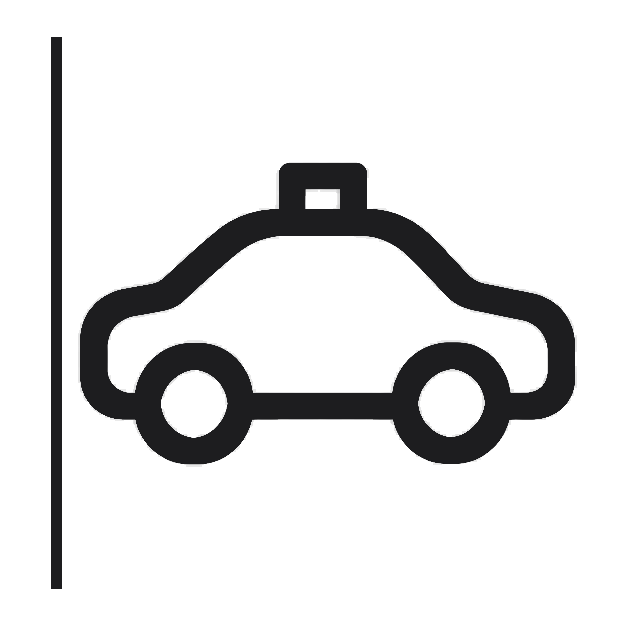
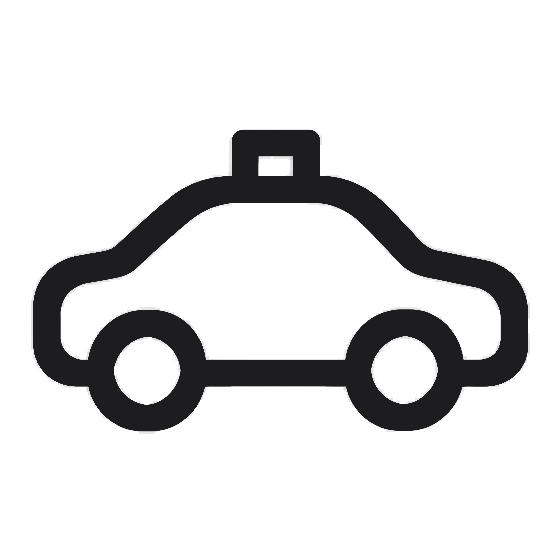
taxi清除88%高残留竖线(放宽检测阈值到40%)+iOS捏合缩放彻底锁死

diff --git a/index.html b/index.html
@@ -212,7 +212,7 @@
         <h3>抵达<span data-nav="深圳北站">深圳北站</span></h3>
         <p>出站步行至地铁约 15 分钟</p>
       </div>
-      <div class="leg" data-from="114.029962,22.610262,深圳北站" data-to="113.943370,22.539064,深大地铁站"><div class="leg-line"><span class="wh"><img class="ic" src="icons/metro.png?v=4" alt=""><span class="way">地铁</span></span><span class="ln ln-5">5</span><span class="ll">深圳北站</span><span class="shaft"><span class="s-dir">赤湾方向</span><span class="s-line lc-5"></span><span class="s-stops">5 站</span></span><span class="ll">留仙洞</span></div><div class="leg-line"><span class="wh"><img class="ic" src="icons/metro.png?v=4" alt=""><span class="way">地铁</span></span><span class="ln ln-13">13</span><span class="ll">留仙洞</span><span class="shaft"><span class="s-dir">深圳湾口岸方向</span><span class="s-line lc-13"></span><span class="s-stops">5 站</span></span><span class="ll">深大站</span><span class="exit">A3 口</span></div><div class="leg-eta"><span class="eta-k">预计到达</span><span class="eta-t">14:00</span><span class="eta-d">约 33 分钟</span></div></div>
+      <div class="leg" data-from="114.029962,22.610262,深圳北站" data-to="113.943370,22.539064,深大地铁站"><div class="leg-line"><span class="wh"><img class="ic" src="icons/metro.png?v=5" alt=""><span class="way">地铁</span></span><span class="ln ln-5">5</span><span class="ll">深圳北站</span><span class="shaft"><span class="s-dir">赤湾方向</span><span class="s-line lc-5"></span><span class="s-stops">5 站</span></span><span class="ll">留仙洞</span></div><div class="leg-line"><span class="wh"><img class="ic" src="icons/metro.png?v=5" alt=""><span class="way">地铁</span></span><span class="ln ln-13">13</span><span class="ll">留仙洞</span><span class="shaft"><span class="s-dir">深圳湾口岸方向</span><span class="s-line lc-13"></span><span class="s-stops">5 站</span></span><span class="ll">深大站</span><span class="exit">A3 口</span></div><div class="leg-eta"><span class="eta-k">预计到达</span><span class="eta-t">14:00</span><span class="eta-d">约 33 分钟</span></div></div>
       <div class="stop">
         <div class="time">14:00–16:00</div>
         <h3><span data-nav="深圳大学粤海校区">深圳大学</span>粤海校区</h3>
@@ -222,30 +222,30 @@
           <span class="tag">17:30 放号 国庆名额 9/30 起抢</span>
           </div>
       </div>
-      <div class="leg" data-from="113.943370,22.539064,深大地铁站" data-to="113.919228,22.488991,水湾地铁站"><div class="walk"><span class="wh"><img class="ic" src="icons/walk.png?v=4" alt=""><span class="way">步行</span></span><span class="ll">深大正门</span><span class="warr">→</span><span class="ll">深大站</span><span class="eta-d">约 3 分钟</span></div><div class="leg-line"><span class="wh"><img class="ic" src="icons/metro.png?v=4" alt=""><span class="way">地铁</span></span><span class="ln ln-1">1</span><span class="ll">深大站</span><span class="shaft"><span class="s-dir">机场东方向</span><span class="s-line lc-1"></span><span class="s-stops">2 站</span></span><span class="ll">世界之窗</span></div><div class="leg-line"><span class="wh"><img class="ic" src="icons/metro.png?v=4" alt=""><span class="way">地铁</span></span><span class="ln ln-2">2</span><span class="ll">世界之窗</span><span class="shaft"><span class="s-dir">赤湾方向</span><span class="s-line lc-2"></span><span class="s-stops">7 站</span></span><span class="ll">水湾站</span><span class="exit">D 口</span></div><div class="walk"><span class="wh"><img class="ic" src="icons/walk.png?v=4" alt=""><span class="way">步行</span></span><span class="ll">D 口</span><span class="warr">→</span><span class="ll">南海意库</span><span class="eta-d">约 6 分钟</span></div><div class="leg-eta"><span class="eta-k">预计到达</span><span class="eta-t">16:30</span><span class="eta-d">约 30 分钟</span></div></div>
+      <div class="leg" data-from="113.943370,22.539064,深大地铁站" data-to="113.919228,22.488991,水湾地铁站"><div class="walk"><span class="wh"><img class="ic" src="icons/walk.png?v=5" alt=""><span class="way">步行</span></span><span class="ll">深大正门</span><span class="warr">→</span><span class="ll">深大站</span><span class="eta-d">约 3 分钟</span></div><div class="leg-line"><span class="wh"><img class="ic" src="icons/metro.png?v=5" alt=""><span class="way">地铁</span></span><span class="ln ln-1">1</span><span class="ll">深大站</span><span class="shaft"><span class="s-dir">机场东方向</span><span class="s-line lc-1"></span><span class="s-stops">2 站</span></span><span class="ll">世界之窗</span></div><div class="leg-line"><span class="wh"><img class="ic" src="icons/metro.png?v=5" alt=""><span class="way">地铁</span></span><span class="ln ln-2">2</span><span class="ll">世界之窗</span><span class="shaft"><span class="s-dir">赤湾方向</span><span class="s-line lc-2"></span><span class="s-stops">7 站</span></span><span class="ll">水湾站</span><span class="exit">D 口</span></div><div class="walk"><span class="wh"><img class="ic" src="icons/walk.png?v=5" alt=""><span class="way">步行</span></span><span class="ll">D 口</span><span class="warr">→</span><span class="ll">南海意库</span><span class="eta-d">约 6 分钟</span></div><div class="leg-eta"><span class="eta-k">预计到达</span><span class="eta-t">16:30</span><span class="eta-d">约 30 分钟</span></div></div>
       <div class="stop">
         <div class="time">16:30–17:30</div>
         <h3><span data-nav="南海意库">南海意库</span> 咖啡</h3>
         <p>旧厂房创意园 独立咖啡馆</p>
         </div>
-      <div class="leg" data-from="113.919228,22.488991,水湾地铁站" data-to="113.943128,22.518702,后海地铁站"><div class="walk"><span class="wh"><img class="ic" src="icons/walk.png?v=4" alt=""><span class="way">步行</span></span><span class="ll">南海意库</span><span class="warr">→</span><span class="ll">水湾站 D 口</span><span class="eta-d">约 6 分钟</span></div><div class="leg-line"><span class="wh"><img class="ic" src="icons/metro.png?v=4" alt=""><span class="way">地铁</span></span><span class="ln ln-2">2</span><span class="ll">水湾站</span><span class="shaft"><span class="s-dir">新秀方向</span><span class="s-line lc-2"></span><span class="s-stops">4 站</span></span><span class="ll">后海站</span><span class="exit">G 口</span></div><div class="walk"><span class="wh"><img class="ic" src="icons/walk.png?v=4" alt=""><span class="way">步行</span></span><span class="ll">G 口</span><span class="warr">→</span><span class="ll">海岸城</span><span class="eta-d">出站即达</span></div><div class="leg-eta"><span class="eta-k">预计到达</span><span class="eta-t">17:50</span><span class="eta-d">约 20 分钟</span></div></div>
+      <div class="leg" data-from="113.919228,22.488991,水湾地铁站" data-to="113.943128,22.518702,后海地铁站"><div class="walk"><span class="wh"><img class="ic" src="icons/walk.png?v=5" alt=""><span class="way">步行</span></span><span class="ll">南海意库</span><span class="warr">→</span><span class="ll">水湾站 D 口</span><span class="eta-d">约 6 分钟</span></div><div class="leg-line"><span class="wh"><img class="ic" src="icons/metro.png?v=5" alt=""><span class="way">地铁</span></span><span class="ln ln-2">2</span><span class="ll">水湾站</span><span class="shaft"><span class="s-dir">新秀方向</span><span class="s-line lc-2"></span><span class="s-stops">4 站</span></span><span class="ll">后海站</span><span class="exit">G 口</span></div><div class="walk"><span class="wh"><img class="ic" src="icons/walk.png?v=5" alt=""><span class="way">步行</span></span><span class="ll">G 口</span><span class="warr">→</span><span class="ll">海岸城</span><span class="eta-d">出站即达</span></div><div class="leg-eta"><span class="eta-k">预计到达</span><span class="eta-t">17:50</span><span class="eta-d">约 20 分钟</span></div></div>
       <div class="stop">
         <div class="time">17:50–19:00</div>
         <h3>晚饭 <span data-nav="海岸城购物中心">海岸城</span></h3>
         </div>
-      <div class="leg" data-from="113.943128,22.518702,后海地铁站" data-to="113.944084,22.512528,人才公园地铁站"><div class="leg-line"><span class="wh"><img class="ic" src="icons/metro.png?v=4" alt=""><span class="way">地铁</span></span><span class="ln ln-13">13</span><span class="ll">后海站</span><span class="shaft"><span class="s-dir">深圳湾口岸方向</span><span class="s-line lc-13"></span><span class="s-stops">1 站</span></span><span class="ll">人才公园站</span><span class="exit">B1 口</span></div><div class="walk"><span class="wh"><img class="ic" src="icons/walk.png?v=4" alt=""><span class="way">步行</span></span><span class="ll">B1 口</span><span class="warr">→</span><span class="ll">人才公园</span><span class="eta-d">约 11 分钟</span></div><div class="leg-eta"><span class="eta-k">预计到达</span><span class="eta-t">19:15</span><span class="eta-d">约 15 分钟</span></div></div>
+      <div class="leg" data-from="113.943128,22.518702,后海地铁站" data-to="113.944084,22.512528,人才公园地铁站"><div class="leg-line"><span class="wh"><img class="ic" src="icons/metro.png?v=5" alt=""><span class="way">地铁</span></span><span class="ln ln-13">13</span><span class="ll">后海站</span><span class="shaft"><span class="s-dir">深圳湾口岸方向</span><span class="s-line lc-13"></span><span class="s-stops">1 站</span></span><span class="ll">人才公园站</span><span class="exit">B1 口</span></div><div class="walk"><span class="wh"><img class="ic" src="icons/walk.png?v=5" alt=""><span class="way">步行</span></span><span class="ll">B1 口</span><span class="warr">→</span><span class="ll">人才公园</span><span class="eta-d">约 11 分钟</span></div><div class="leg-eta"><span class="eta-k">预计到达</span><span class="eta-t">19:15</span><span class="eta-d">约 15 分钟</span></div></div>
       <div class="stop">
         <div class="time">19:15–20:10</div>
         <h3><span data-nav="人才公园深圳">人才公园</span>夜景</h3>
         <p>春笋大厦灯光 湖面倒影</p>
         </div>
-      <div class="leg" data-from="113.944084,22.512528,人才公园地铁站" data-to="114.068616,22.537704,岗厦北地铁站"><div class="walk"><span class="wh"><img class="ic" src="icons/walk.png?v=4" alt=""><span class="way">步行</span></span><span class="ll">人才公园</span><span class="warr">→</span><span class="ll">人才公园站 B1 口</span><span class="eta-d">约 11 分钟</span></div><div class="leg-line"><span class="wh"><img class="ic" src="icons/metro.png?v=4" alt=""><span class="way">地铁</span></span><span class="ln ln-13">13</span><span class="ll">人才公园站</span><span class="shaft"><span class="s-dir">上屋北方向</span><span class="s-line lc-13"></span><span class="s-stops">1 站</span></span><span class="ll">后海站</span></div><div class="leg-line"><span class="wh"><img class="ic" src="icons/metro.png?v=4" alt=""><span class="way">地铁</span></span><span class="ln ln-11">11</span><span class="ll">后海站</span><span class="shaft"><span class="s-dir">福田方向</span><span class="s-line lc-11"></span><span class="s-stops">2 站</span></span><span class="ll">岗厦北站</span></div><div class="leg-eta"><span class="eta-k">预计到达</span><span class="eta-t">20:35</span><span class="eta-d">约 25 分钟</span></div></div>
+      <div class="leg" data-from="113.944084,22.512528,人才公园地铁站" data-to="114.068616,22.537704,岗厦北地铁站"><div class="walk"><span class="wh"><img class="ic" src="icons/walk.png?v=5" alt=""><span class="way">步行</span></span><span class="ll">人才公园</span><span class="warr">→</span><span class="ll">人才公园站 B1 口</span><span class="eta-d">约 11 分钟</span></div><div class="leg-line"><span class="wh"><img class="ic" src="icons/metro.png?v=5" alt=""><span class="way">地铁</span></span><span class="ln ln-13">13</span><span class="ll">人才公园站</span><span class="shaft"><span class="s-dir">上屋北方向</span><span class="s-line lc-13"></span><span class="s-stops">1 站</span></span><span class="ll">后海站</span></div><div class="leg-line"><span class="wh"><img class="ic" src="icons/metro.png?v=5" alt=""><span class="way">地铁</span></span><span class="ln ln-11">11</span><span class="ll">后海站</span><span class="shaft"><span class="s-dir">福田方向</span><span class="s-line lc-11"></span><span class="s-stops">2 站</span></span><span class="ll">岗厦北站</span></div><div class="leg-eta"><span class="eta-k">预计到达</span><span class="eta-t">20:35</span><span class="eta-d">约 25 分钟</span></div></div>
       <div class="stop">
         <div class="time">20:35–21:05</div>
         <h3><span data-nav="岗厦北地铁站">岗厦北地铁站</span>打卡</h3>
         <p>深圳之眼巨型天窗</p>
         </div>
-      <div class="leg" data-from="114.068616,22.537704,岗厦北地铁站" data-to="114.218965,22.718491,黄阁坑地铁站"><div class="leg-line"><span class="wh"><img class="ic" src="icons/metro.png?v=4" alt=""><span class="way">地铁</span></span><span class="ln ln-14">14</span><span class="ll">岗厦北站</span><span class="shaft"><span class="s-dir">沙田方向</span><span class="s-line lc-14"></span><span class="s-stops">8 站</span></span><span class="ll">大运站</span></div><div class="leg-line"><span class="wh"><img class="ic" src="icons/metro.png?v=4" alt=""><span class="way">地铁</span></span><span class="ln ln-16">16</span><span class="ll">大运站</span><span class="shaft"><span class="s-dir">田心方向</span><span class="s-line lc-16"></span><span class="s-stops">3 站</span></span><span class="ll">黄阁坑站</span></div><div class="walk"><span class="wh"><img class="ic" src="icons/walk.png?v=4" alt=""><span class="way">步行</span></span><span class="ll">黄阁坑站</span><span class="warr">→</span><span class="ll">酒店</span><span class="eta-d">约 4 分钟</span></div><div class="leg-eta"><span class="eta-k">预计到达</span><span class="eta-t">21:50</span><span class="eta-d">约 45 分钟</span></div></div>
+      <div class="leg" data-from="114.068616,22.537704,岗厦北地铁站" data-to="114.218965,22.718491,黄阁坑地铁站"><div class="leg-line"><span class="wh"><img class="ic" src="icons/metro.png?v=5" alt=""><span class="way">地铁</span></span><span class="ln ln-14">14</span><span class="ll">岗厦北站</span><span class="shaft"><span class="s-dir">沙田方向</span><span class="s-line lc-14"></span><span class="s-stops">8 站</span></span><span class="ll">大运站</span></div><div class="leg-line"><span class="wh"><img class="ic" src="icons/metro.png?v=5" alt=""><span class="way">地铁</span></span><span class="ln ln-16">16</span><span class="ll">大运站</span><span class="shaft"><span class="s-dir">田心方向</span><span class="s-line lc-16"></span><span class="s-stops">3 站</span></span><span class="ll">黄阁坑站</span></div><div class="walk"><span class="wh"><img class="ic" src="icons/walk.png?v=5" alt=""><span class="way">步行</span></span><span class="ll">黄阁坑站</span><span class="warr">→</span><span class="ll">酒店</span><span class="eta-d">约 4 分钟</span></div><div class="leg-eta"><span class="eta-k">预计到达</span><span class="eta-t">21:50</span><span class="eta-d">约 45 分钟</span></div></div>
       <div class="stop">
         <div class="time">21:50</div>
         <h3>返回<span data-nav="皇朝印象酒店龙岗中心大运新城店">酒店</span>入住</h3>
@@ -259,18 +259,18 @@
       <div class="day-num"><span>MON</span><b>05</b></div>
     </div>
                         <div class="tl">
-      <div class="leg" data-nav="鹤湖新居"><div class="leg-line"><span class="wh"><img class="ic" src="icons/taxi.png?v=4" alt=""><span class="way">打车</span></span><span class="ll">酒店</span><span class="shaft"><span class="s-dir">约 10 分钟</span><span class="s-line"></span><span class="s-stops"></span></span><span class="ll">鹤湖新居</span></div><div class="leg-eta"><span class="eta-k">预计到达</span><span class="eta-t">09:30</span><span class="eta-d">约 10 分钟</span></div></div>
+      <div class="leg" data-nav="鹤湖新居"><div class="leg-line"><span class="wh"><img class="ic" src="icons/taxi.png?v=5" alt=""><span class="way">打车</span></span><span class="ll">酒店</span><span class="shaft"><span class="s-dir">约 10 分钟</span><span class="s-line"></span><span class="s-stops"></span></span><span class="ll">鹤湖新居</span></div><div class="leg-eta"><span class="eta-k">预计到达</span><span class="eta-t">09:30</span><span class="eta-d">约 10 分钟</span></div></div>
       <div class="stop">
         <div class="time">09:30–11:00</div>
         <h3><span data-nav="鹤湖新居">鹤湖新居</span></h3>
         <p>客家围屋</p>
         </div>
-      <div class="leg" data-nav="皇朝印象酒店龙岗中心大运新城店"><div class="leg-line"><span class="wh"><img class="ic" src="icons/taxi.png?v=4" alt=""><span class="way">打车</span></span><span class="ll">鹤湖新居</span><span class="shaft"><span class="s-dir">约 10 分钟</span><span class="s-line"></span><span class="s-stops"></span></span><span class="ll">酒店</span></div><div class="leg-eta"><span class="eta-k">预计到达</span><span class="eta-t">11:10</span><span class="eta-d">约 10 分钟</span></div></div>
+      <div class="leg" data-nav="皇朝印象酒店龙岗中心大运新城店"><div class="leg-line"><span class="wh"><img class="ic" src="icons/taxi.png?v=5" alt=""><span class="way">打车</span></span><span class="ll">鹤湖新居</span><span class="shaft"><span class="s-dir">约 10 分钟</span><span class="s-line"></span><span class="s-stops"></span></span><span class="ll">酒店</span></div><div class="leg-eta"><span class="eta-k">预计到达</span><span class="eta-t">11:10</span><span class="eta-d">约 10 分钟</span></div></div>
       <div class="stop">
         <div class="time">11:10–12:30</div>
         <h3>回酒店 午餐休整</h3>
         </div>
-      <div class="leg" data-from="114.218965,22.718491,黄阁坑地铁站" data-to="114.220022,22.695191,大运中心地铁站"><div class="walk"><span class="wh"><img class="ic" src="icons/walk.png?v=4" alt=""><span class="way">步行</span></span><span class="ll">酒店</span><span class="warr">→</span><span class="ll">黄阁坑站</span><span class="eta-d">约 4 分钟</span></div><div class="leg-line"><span class="wh"><img class="ic" src="icons/metro.png?v=4" alt=""><span class="way">地铁</span></span><span class="ln ln-16">16</span><span class="ll">黄阁坑站</span><span class="shaft"><span class="s-dir">大运方向</span><span class="s-line lc-16"></span><span class="s-stops">2 站</span></span><span class="ll">大运中心站</span><span class="exit">C 口</span><span class="lnote">内场</span><span class="exit">D 口</span><span class="lnote">看台</span></div><div class="walk"><span class="wh"><img class="ic" src="icons/walk.png?v=4" alt=""><span class="way">步行</span></span><span class="ll">出站</span><span class="warr">→</span><span class="ll">大运中心体育场</span><span class="eta-d">约 6 分钟</span></div><div class="leg-eta"><span class="eta-k">预计到达</span><span class="eta-t">12:50</span><span class="eta-d">约 20 分钟</span></div></div>
+      <div class="leg" data-from="114.218965,22.718491,黄阁坑地铁站" data-to="114.220022,22.695191,大运中心地铁站"><div class="walk"><span class="wh"><img class="ic" src="icons/walk.png?v=5" alt=""><span class="way">步行</span></span><span class="ll">酒店</span><span class="warr">→</span><span class="ll">黄阁坑站</span><span class="eta-d">约 4 分钟</span></div><div class="leg-line"><span class="wh"><img class="ic" src="icons/metro.png?v=5" alt=""><span class="way">地铁</span></span><span class="ln ln-16">16</span><span class="ll">黄阁坑站</span><span class="shaft"><span class="s-dir">大运方向</span><span class="s-line lc-16"></span><span class="s-stops">2 站</span></span><span class="ll">大运中心站</span><span class="exit">C 口</span><span class="lnote">内场</span><span class="exit">D 口</span><span class="lnote">看台</span></div><div class="walk"><span class="wh"><img class="ic" src="icons/walk.png?v=5" alt=""><span class="way">步行</span></span><span class="ll">出站</span><span class="warr">→</span><span class="ll">大运中心体育场</span><span class="eta-d">约 6 分钟</span></div><div class="leg-eta"><span class="eta-k">预计到达</span><span class="eta-t">12:50</span><span class="eta-d">约 20 分钟</span></div></div>
       <div class="stop">
         <div class="time">12:50–19:00</div>
         <h3><span data-nav="深圳大运中心体育场">大运中心</span>片区</h3>
@@ -280,7 +280,7 @@
         <div class="time">19:00–22:00</div>
         <h3>I AM GLORIA 演唱会</h3>
         </div>
-      <div class="leg" data-from="114.220022,22.695191,大运中心地铁站" data-to="114.218965,22.718491,黄阁坑地铁站"><div class="leg-line"><span class="wh"><img class="ic" src="icons/metro.png?v=4" alt=""><span class="way">地铁</span></span><span class="ln ln-16">16</span><span class="ll">大运中心站</span><span class="shaft"><span class="s-dir">田心方向</span><span class="s-line lc-16"></span><span class="s-stops">2 站</span></span><span class="ll">黄阁坑站</span><span class="lnote">或打车 约 10 分钟</span></div><div class="leg-eta"><span class="eta-k">预计到达</span><span class="eta-t">22:20</span><span class="eta-d">约 20 分钟</span></div></div>
+      <div class="leg" data-from="114.220022,22.695191,大运中心地铁站" data-to="114.218965,22.718491,黄阁坑地铁站"><div class="leg-line"><span class="wh"><img class="ic" src="icons/metro.png?v=5" alt=""><span class="way">地铁</span></span><span class="ln ln-16">16</span><span class="ll">大运中心站</span><span class="shaft"><span class="s-dir">田心方向</span><span class="s-line lc-16"></span><span class="s-stops">2 站</span></span><span class="ll">黄阁坑站</span><span class="lnote">或打车 约 10 分钟</span></div><div class="leg-eta"><span class="eta-k">预计到达</span><span class="eta-t">22:20</span><span class="eta-d">约 20 分钟</span></div></div>
       <div class="stop">
         <div class="time">22:20</div>
         <h3>散场回酒店</h3>
@@ -302,7 +302,7 @@
         <div class="time">11:30–12:00</div>
         <h3>退房 行李寄存前台</h3>
         </div>
-      <div class="leg" data-from="114.218965,22.718491,黄阁坑地铁站" data-to="114.029962,22.610262,深圳北站"><div class="walk"><span class="wh"><img class="ic" src="icons/walk.png?v=4" alt=""><span class="way">步行</span></span><span class="ll">酒店</span><span class="warr">→</span><span class="ll">黄阁坑站</span><span class="eta-d">约 4 分钟</span></div><div class="leg-line"><span class="wh"><img class="ic" src="icons/metro.png?v=4" alt=""><span class="way">地铁</span></span><span class="ln ln-16">16</span><span class="ll">黄阁坑站</span><span class="shaft"><span class="s-dir">大运方向</span><span class="s-line lc-16"></span><span class="s-stops">3 站</span></span><span class="ll">大运站</span></div><div class="leg-line"><span class="wh"><img class="ic" src="icons/metro.png?v=4" alt=""><span class="way">地铁</span></span><span class="ln ln-14">14</span><span class="ll">大运站</span><span class="shaft"><span class="s-dir">岗厦北方向</span><span class="s-line lc-14"></span><span class="s-stops">5 站</span></span><span class="ll">布吉站</span></div><div class="leg-line"><span class="wh"><img class="ic" src="icons/metro.png?v=4" alt=""><span class="way">地铁</span></span><span class="ln ln-5">5</span><span class="ll">布吉站</span><span class="shaft"><span class="s-dir">黄贝岭方向</span><span class="s-line lc-5"></span><span class="s-stops">8 站</span></span><span class="ll">深圳北站</span></div><div class="walk"><span class="wh"><img class="ic" src="icons/walk.png?v=4" alt=""><span class="way">步行</span></span><span class="ll">站内</span><span class="warr">→</span><span class="ll">候车厅</span><span class="eta-d">约 10 分钟</span></div><div class="leg-eta"><span class="eta-k">预计到达</span><span class="eta-t">16:40</span><span class="eta-d">约 70 分钟</span></div></div>
+      <div class="leg" data-from="114.218965,22.718491,黄阁坑地铁站" data-to="114.029962,22.610262,深圳北站"><div class="walk"><span class="wh"><img class="ic" src="icons/walk.png?v=5" alt=""><span class="way">步行</span></span><span class="ll">酒店</span><span class="warr">→</span><span class="ll">黄阁坑站</span><span class="eta-d">约 4 分钟</span></div><div class="leg-line"><span class="wh"><img class="ic" src="icons/metro.png?v=5" alt=""><span class="way">地铁</span></span><span class="ln ln-16">16</span><span class="ll">黄阁坑站</span><span class="shaft"><span class="s-dir">大运方向</span><span class="s-line lc-16"></span><span class="s-stops">3 站</span></span><span class="ll">大运站</span></div><div class="leg-line"><span class="wh"><img class="ic" src="icons/metro.png?v=5" alt=""><span class="way">地铁</span></span><span class="ln ln-14">14</span><span class="ll">大运站</span><span class="shaft"><span class="s-dir">岗厦北方向</span><span class="s-line lc-14"></span><span class="s-stops">5 站</span></span><span class="ll">布吉站</span></div><div class="leg-line"><span class="wh"><img class="ic" src="icons/metro.png?v=5" alt=""><span class="way">地铁</span></span><span class="ln ln-5">5</span><span class="ll">布吉站</span><span class="shaft"><span class="s-dir">黄贝岭方向</span><span class="s-line lc-5"></span><span class="s-stops">8 站</span></span><span class="ll">深圳北站</span></div><div class="walk"><span class="wh"><img class="ic" src="icons/walk.png?v=5" alt=""><span class="way">步行</span></span><span class="ll">站内</span><span class="warr">→</span><span class="ll">候车厅</span><span class="eta-d">约 10 分钟</span></div><div class="leg-eta"><span class="eta-k">预计到达</span><span class="eta-t">16:40</span><span class="eta-d">约 70 分钟</span></div></div>
       <div class="stop">
         <div class="time">16:40–18:04</div>
         <h3><span data-nav="深圳北站">深圳北站</span>候车</h3>
@@ -374,6 +374,9 @@
     update();
   });
 
+  document.addEventListener('gesturestart', function(e){ e.preventDefault(); }, { passive: false });
+  document.addEventListener('gesturechange', function(e){ e.preventDefault(); }, { passive: false });
+  document.addEventListener('touchmove', function(e){ if (e.touches.length > 1) e.preventDefault(); }, { passive: false });
   var toTop = document.getElementById('toTop');
   window.addEventListener('scroll', function(){
     toTop.classList.toggle('show', window.scrollY > 600);
